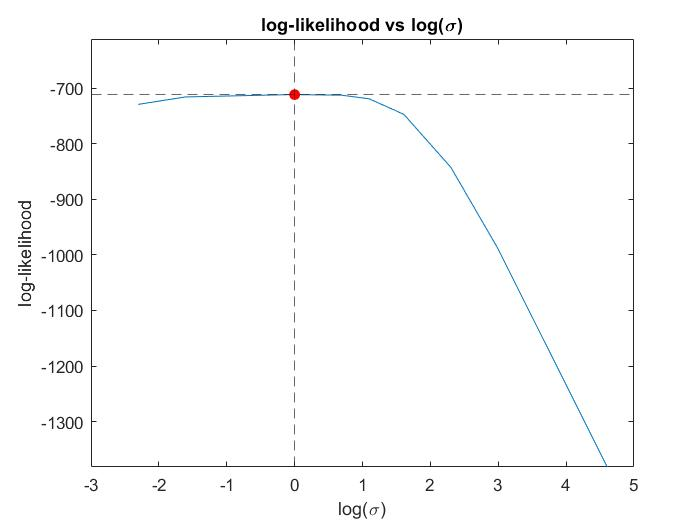
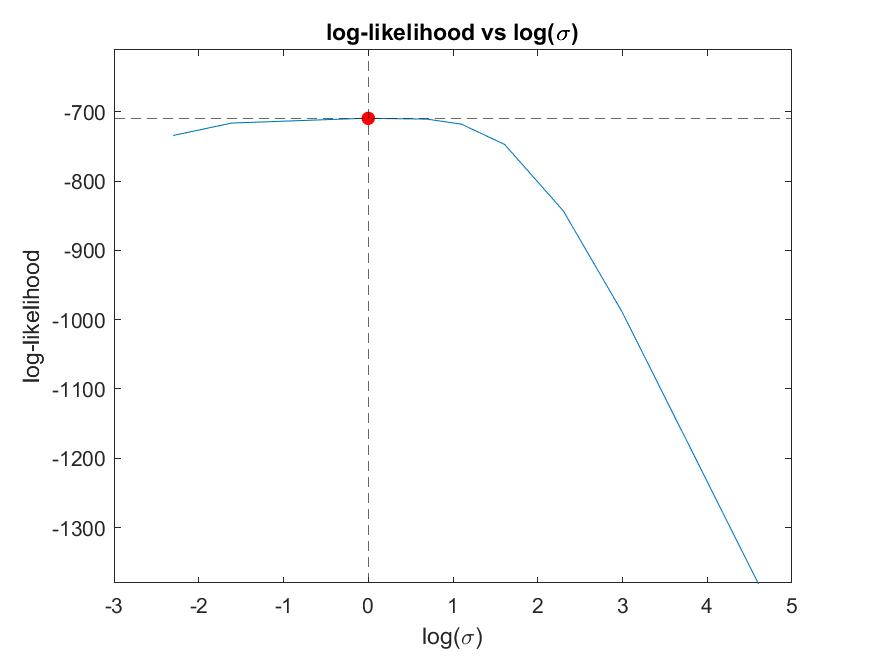
Q4: Part (d) completed

diff --git a/MATLAB/q4/q4.m b/MATLAB/q4/q4.m
@@ -1,17 +1,16 @@
 clc;
 clear;
 close all;
+rng(42); % Seed for reproducible results
 
 % Part (a)
 N = 1000;
 X = normrnd(0, 4, [N 1]); % Note: it's mu, sigma and not mu, sigma^2
 % Train-Test split
-rng(10); % Seed for reproducible results
-random_indices = randperm(N);
 n = 750;
-T = X(random_indices(1:n)); % Test set
-m = 250;
-V = X(random_indices(n+1:end)); % Validation set
+m = N - n;
+T = X(1:n); % Test set
+V = X(n+1:end); % Validation set
 
 % Part (c): Subpart I
 sigmas = [0.001 0.1 0.2 0.9 1 2 3 5 10 20 100];
@@ -29,18 +28,18 @@ end
 
 % Compute the maximum:
 ll_max = max(ll);
-sigma_max = sigmas(ll == ll_max);
+sigma_best_1 = sigmas(ll == ll_max);
 
 % Printing
-fprintf("%.4f\n", sigma_max);
+fprintf("Best sigma that maximizes the LL:  %.4f\n", sigma_best_1);
 
 % Plotting
 figure;
 plot(log(sigmas), ll);
 hold on;
-point = plot(log(sigma_max), ll_max, "ro");
+point = plot(log(sigma_best_1), ll_max, "ro");
 set(point, 'MarkerFaceColor', get(point,'Color')); % fills the dot
-xline(log(sigma_max), "--");
+xline(log(sigma_best_1), "--");
 yline(ll_max, "--");
 xlabel("log(\sigma)");
 ylabel("log-likelihood");
@@ -53,8 +52,8 @@ x = -8:0.1:8;
 estimates = zeros(1, length(x));
 for i = 1:length(x)
     numerator   = -((T-x(i)).^2);
-    denominator = 2*(sigma_max^2);
-    estimates(i) = (1/(n*sigma_max*sqrt(2*pi)))*sum(exp(numerator ./ denominator));
+    denominator = 2*(sigma_best_1^2);
+    estimates(i) = (1/(n*sigma_best_1*sqrt(2*pi)))*sum(exp(numerator ./ denominator));
 end
 actual = normpdf(x, 0, 4);
 
@@ -65,11 +64,13 @@ hold on;
 plot(x, actual, "r");
 xlabel("$x$", "Interpreter", "Latex");
 ylabel("$\hat{p_n}(x; \sigma)$", "Interpreter", "Latex");
+ylim([min(min(actual), min(estimates))-0.02 max(max(actual), max(estimates))+0.02]);
 title("$\hat{p_n}(x; \sigma)$ vs x", "Interpreter", "Latex");
-legend("Estimate", "True");
+lgd = legend(sprintf("Estimate for sigma = %.4f", sigma_best_1), "True PDF");
+lgd.FontSize = 9;
 hold off;
 
-% Part (d)
+% Part (d): Subpart I
 p_x = normpdf(V, 0, 4);
 D = zeros(1, length(sigmas));
 for s = 1:length(sigmas)
@@ -85,6 +86,9 @@ end
 
 min_D = min(D);
 sigma_best_2 = sigmas(D == min_D);
+fprintf("Best sigma that minimizes D:  %.4f\n", sigma_best_2);
+fprintf("The value of D at this sigma(= %.4f) is:  %.4f\n", sigma_best_2, min_D);
+fprintf("D value for the sigma parameter that yielded the best LL:  %.4f\n", D(sigmas == sigma_best_1));
 
 figure;
 plot(log(sigmas), D);
@@ -97,4 +101,26 @@ ylim([min(D)-1, max(D)+1]);
 xlabel("$\log(\sigma)$", "Interpreter", "Latex");
 ylabel("D", "Interpreter", "Latex");
 title("D vs $log(\sigma)$", "Interpreter", "Latex");
+hold off;
+
+% Part (d): Subpart II
+x = -8:0.1:8;
+estimates_2 = zeros(1, length(x));
+for i = 1:length(x)
+    numerator   = -((T-x(i)).^2);
+    denominator = 2*(sigma_best_2^2);
+    estimates_2(i) = (1/(n*sigma_best_2*sqrt(2*pi)))*sum(exp(numerator ./ denominator));
+end
+
+% Plotting
+figure;
+plot(x, estimates_2);
+hold on;
+plot(x, actual, "r");
+xlabel("$x$", "Interpreter", "Latex");
+ylabel("$\hat{p_n}(x; \sigma)$", "Interpreter", "Latex");
+ylim([min(min(actual), min(estimates_2))-0.02 max(max(actual), max(estimates_2))+0.02]);
+title("$\hat{p_n}(x; \sigma)$ vs x", "Interpreter", "Latex");
+lgd = legend(sprintf("Estimate for sigma = %.4f", sigma_best_2), "True PDF");
+lgd.FontSize = 9;
 hold off;

diff --git a/current_sol.tex b/current_sol.tex
@@ -436,7 +436,7 @@ $$
 \subsection*{(c)}
 \begin{figure}[H]
     \centering
-    \includegraphics[scale=0.5]{q4ci.jpg}
+    \includegraphics[scale=0.4]{q4ci.jpg}
     \caption{$\log f(\{v_j\}_{j=1}^{m}; \sigma)$ vs $\log(\sigma)$}
     \label{fig:my_label}
 \end{figure}
@@ -445,7 +445,7 @@ $\boxed{\sigma = 1 }$ yields the maximum value of the log-likelihood.
 
 \begin{figure}[H]
     \centering
-    \includegraphics[scale=0.5]{q4cii.jpg}
+    \includegraphics[scale=0.4]{q4cii.jpg}
     \caption{True PDF overlaid on the estimated PDF}
     \label{fig:my_label}
 \end{figure}
@@ -454,12 +454,25 @@ $\boxed{\sigma = 1 }$ yields the maximum value of the log-likelihood.
 \subsection*{(d)}
 \begin{figure}[H]
     \centering
-    \includegraphics[scale=0.5]{q4di.jpg}
+    \includegraphics[scale=0.41]{q4di.jpg}
     \caption{D vs $\log(\sigma)$}
     \label{fig:my_label}
 \end{figure}
-$\boxed{ \sigma = 1 }$ yields the minimum value of $D$.\\
-\\
-$\boxed{D = 0.0061}$ for the $\sigma$ parameter that yielded the best LL.
+
+\begin{figure}[H]
+    \centering
+    \includegraphics[scale=0.41]{q4cii.jpg}
+    \caption{True PDF overlaid on the estimated PDF}
+    \label{fig:my_label}
+\end{figure}
+\newpage
+
+\begin{verbatim}
+    Best sigma that minimizes D:  0.9000
+    The value of D at this sigma(= 0.9000) is:  0.0048
+    D value for the sigma parameter that yielded the best LL:  0.0049
+\end{verbatim}
+
+\subsection*{(e)}
 
 \end{document}
